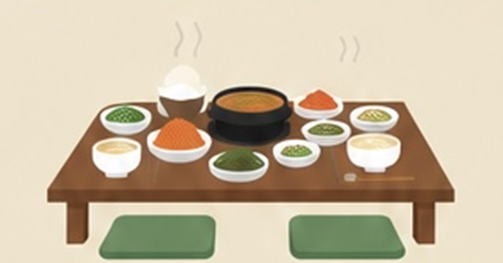
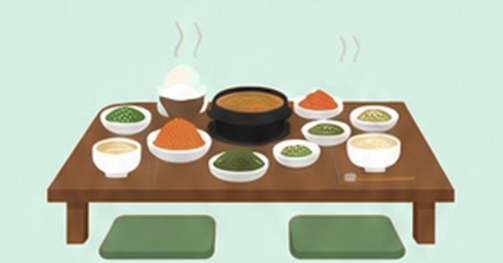
집밥 바탕 파스텔 민트 · 꽃꽂이 양동이 빼고 꽃병 색 진하게

diff --git a/src/components/RoomArt.tsx b/src/components/RoomArt.tsx
@@ -326,17 +326,17 @@ const ART: Record<ProgramId, ReactNode> = {
     </Room>
   ),
 
-  /* 06 집밥 — 시안 그림 그대로 (나무 밥상 위 밥 · 뚝배기 · 반찬, 초록 방석). 그림 비율이 더 가로로 길어 위아래 남는 곳은 같은 베이지로 채움 (그림은 가운데) */
+  /* 06 집밥 — 시안 그림 그대로 (나무 밥상 위 밥 · 뚝배기 · 반찬, 초록 방석), 바탕만 파스텔 민트로. 위아래 남는 곳도 같은 민트 (그림은 가운데) */
   homemeal: (
     <>
-      <rect width="400" height="260" fill="#EEE3CE" />
+      <rect width="400" height="260" fill="#D6EEE4" />
       <g className="obj">
         <image href="rooms/homemeal.png" x="0" y="0" width="400" height="260" preserveAspectRatio="xMidYMid meet" />
       </g>
     </>
   ),
 
-  /* 07 꽃꽂이 — 연보라 파스텔 벽 · 벽 선반 위 작은 화병 · 압화 액자 · 테이블 위 유리 꽃병과 가위 · 꽃 양동이 · 물뿌리개 */
+  /* 07 꽃꽂이 — 연보라 파스텔 벽 · 벽 선반 위 작은 화병 · 압화 액자 · 테이블 위 유리 꽃병과 가위 · 물뿌리개 */
   flower: (
     <Room wall="#E4DAF0">
       {/* 벽 선반 · 작은 화병 둘 */}
@@ -359,7 +359,8 @@ const ART: Record<ProgramId, ReactNode> = {
       <circle cx="330" cy="68" r="3.5" fill="#F2A07A" />
       <Table x={104} w={232} y={190} />
       <g className="obj">
-        <path d="M196 190 L190 154 H222 L216 190 Z" fill="#CFE5E6" opacity=".85" />
+        <path d="M196 190 L190 154 H222 L216 190 Z" fill="#4F8F9C" />
+        <path d="M191 160 H221" stroke="#3E7783" strokeWidth="3" />
         <path d="M206 190 V128 M206 160 L190 124 M206 160 L224 120 M206 168 L180 140 M206 168 L234 138" stroke={C.leaf} strokeWidth="2" />
         <path d="M184 142 q-8 -6 -4 -12 q6 2 4 12 Z M230 138 q8 -6 4 -12 q-6 2 -4 12 Z" fill={C.leaf} />
         {[[190, 120, '#E26B4F'], [206, 106, C.white], [224, 116, C.orange], [178, 136, C.orange], [236, 134, '#E26B4F'], [212, 126, '#F2A07A']].map(([x, y, c]) => (
@@ -377,18 +378,6 @@ const ART: Record<ProgramId, ReactNode> = {
       <path d="M262 186 L292 176 M262 176 L292 186" stroke={C.grey} strokeWidth="2.5" strokeLinecap="round" />
       <circle cx="296" cy="174" r="4" fill="none" stroke={C.grey} strokeWidth="2" />
       <circle cx="296" cy="188" r="4" fill="none" stroke={C.grey} strokeWidth="2" />
-      {/* 바닥 꽃 양동이 */}
-      <path d="M40 212 C34 196 38 182 44 176 M54 212 C56 194 52 182 58 172 M66 212 C70 198 72 188 80 182" stroke={C.leaf} strokeWidth="2.2" fill="none" />
-      {[[44, 174, '#E26B4F'], [58, 170, C.white], [80, 180, '#F6C945'], [36, 186, '#F2A07A'], [68, 186, '#E26B4F']].map(([x, y, c]) => (
-        <g key={`b${x}-${y}`}>
-          {[0, 72, 144, 216, 288].map((a) => (
-            <circle key={a} cx={(x as number) + Math.cos((a * Math.PI) / 180) * 4.5} cy={(y as number) + Math.sin((a * Math.PI) / 180) * 4.5} r="4" fill={c as string} />
-          ))}
-          <circle cx={x as number} cy={y as number} r="2.6" fill="#F6C945" />
-        </g>
-      ))}
-      <path d="M32 210 H88 L82 256 H38 Z" fill="#9AA3A8" />
-      <rect x="30" y="208" width="60" height="6" rx="3" fill="#B7BEC2" />
       {/* 물뿌리개 */}
       <path d="M346 222 H378 V256 H346 Z" fill="#6FA06A" />
       <path d="M346 230 L326 214 L322 218" stroke="#6FA06A" strokeWidth="5" fill="none" strokeLinecap="round" />
